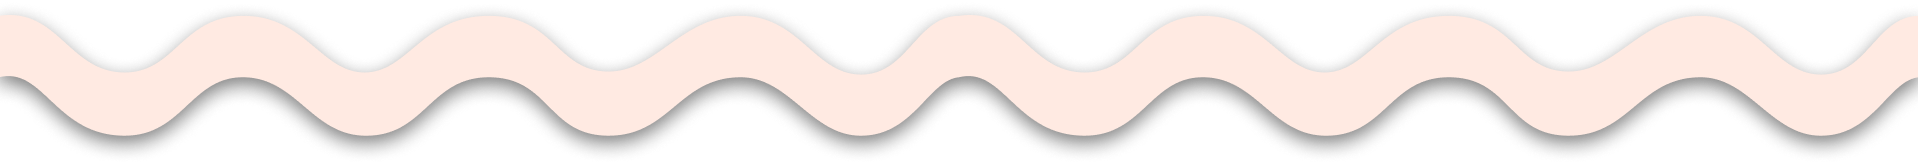
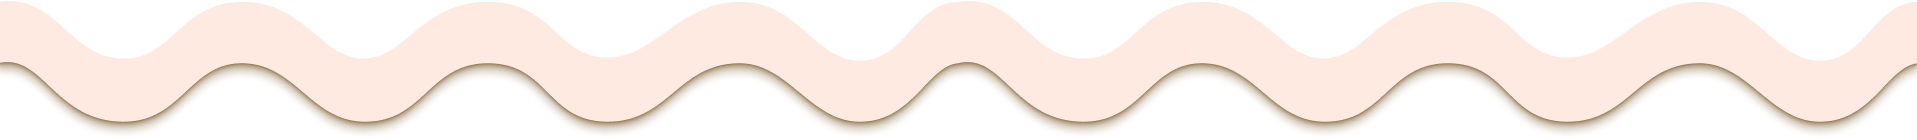
squiggle shadow and center

diff --git a/src/app/General.jsx b/src/app/General.jsx
@@ -2,11 +2,11 @@ import React from "react";
 
 const General = () => {
   return (
-    <section className="bg-seaweed h-[100vh] max-w-full overflow-hidden relative">
-      <div className="w-full h-[72px] bg-pinky absolute bottom-0"></div>
+    <section className="bg-seaweed h-[100vh] max-w-full overflow-hidden relative flex flex-col items-center">
+      <div className="w-full h-[82px] bg-pinky absolute bottom-0"></div>
       <div
         alt=""
-        className="absolute bottom-0 inline-block w-[1920px] h-[136px] bg-greenSquiggle bg-auto bg-center"
+        className="absolute bottom-0 inline-block w-[1920px] h-[142px] bg-greenSquiggle bg-auto bg-center"
       />
     </section>
   );

diff --git a/src/app/Stack.jsx b/src/app/Stack.jsx
@@ -2,8 +2,8 @@ import React from "react";
 
 const Stack = () => {
   return (
-    <section className="bg-pinky h-[100vh] max-w-full overflow-hidden relative">
-      <div className="w-full h-[72px] bg-darkDijon absolute bottom-0"></div>
+    <section className="bg-pinky h-[100vh] max-w-full overflow-hidden relative flex flex-col items-center">
+      <div className="w-full h-[76px] bg-darkDijon absolute bottom-0"></div>
       <div
         alt=""
         className="absolute bottom-0 inline-block w-[1920px] h-[136px] bg-pinkSquiggle bg-auto bg-center"
